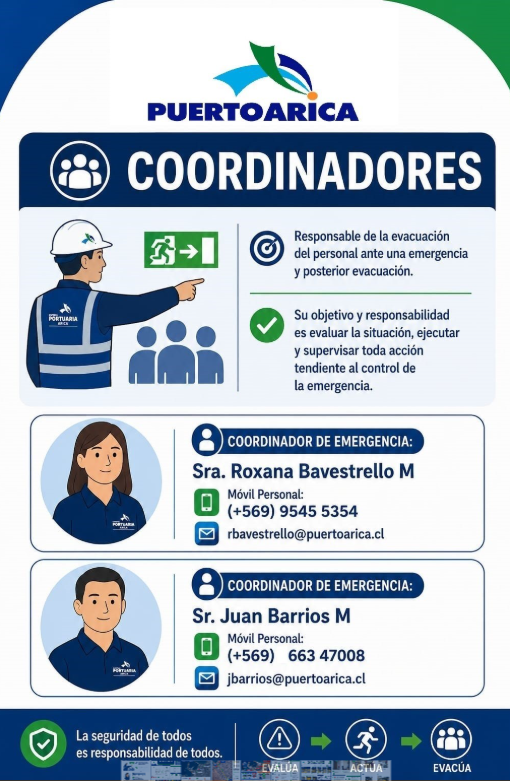
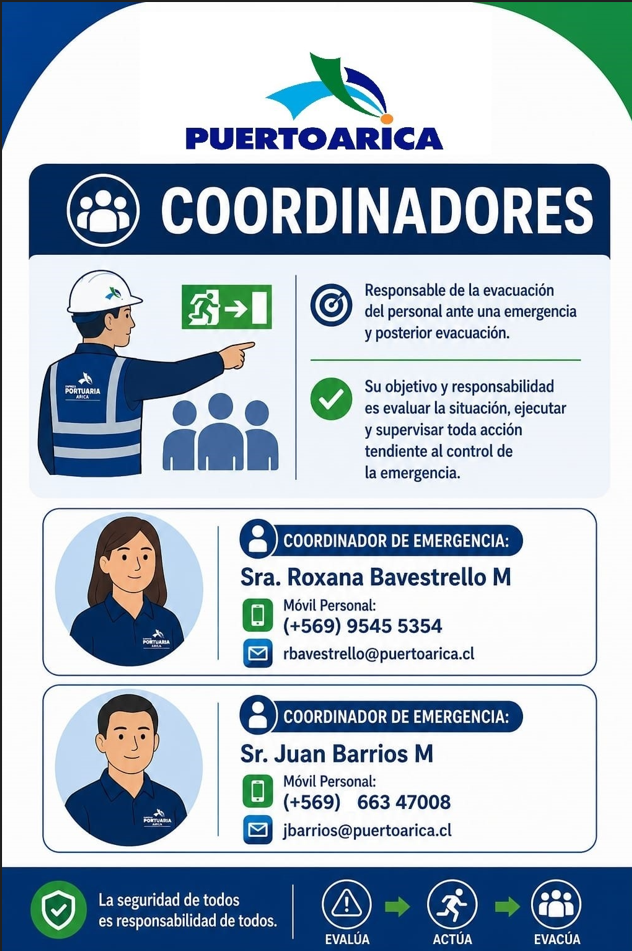
Mejoras modulo plan de emergencia (nuevas imagenes, UI fix)

diff --git a/application/views/plan_emergencia/index.php b/application/views/plan_emergencia/index.php
@@ -516,7 +516,6 @@
     .epa-wip-icon {
       font-size: 36px;
       flex-shrink: 0;
-      animation: wip-pulse 2s ease-in-out infinite;
     }
 
     @keyframes wip-pulse {
@@ -669,7 +668,7 @@
         <article class="epa-card">
           <div class="epa-card-img-wrap">
             <span class="epa-card-badge"><i class="fa fa-building"></i> Nivel 2</span>
-            <img src="<?= $base_img ?>plano_2piso.png" alt="Plano 2° Piso Edificio Administrativo" onerror="this.src='<?= $base_img ?>coordinadores.png'">
+            <img src="<?= $base_img ?>plano_2piso.png" alt="Plano Evacuación 2° Piso">
           </div>
           <div class="epa-card-body">
             <h2 class="epa-card-title">Plano Evacuación 2° Piso</h2>
@@ -683,36 +682,36 @@
           </div>
         </article>
 
-        <!-- Plano 2: Señalización Oficinas -->
+        <!-- Plano 2: Mapa General Puerto -->
         <article class="epa-card">
           <div class="epa-card-img-wrap">
-            <span class="epa-card-badge"><i class="fa fa-info-circle"></i> Señalética</span>
-            <img src="<?= $base_img ?>anexo_senalizacion_oficinas.png" alt="Señalización de Oficinas" onerror="this.src='<?= $base_img ?>coordinadores.png'">
+            <span class="epa-card-badge"><i class="fa fa-anchor"></i> General</span>
+            <img src="<?= $base_img ?>plano_general.jpg" alt="Mapa General del Recinto Portuario">
           </div>
           <div class="epa-card-body">
-            <h2 class="epa-card-title">Señalización de Oficinas</h2>
-            <div class="epa-card-sector"><i class="fa fa-map-marker"></i> Sector: Áreas Administrativas y Pasillos</div>
-            <p class="epa-card-desc">Guía de señalética de emergencia, ubicación de equipos de extinción y vías de evacuación hacia zonas seguras.</p>
+            <h2 class="epa-card-title">Mapa General del Recinto Portuario</h2>
+            <div class="epa-card-sector"><i class="fa fa-map-marker"></i> Sector: Terminal Portuario Arica (EPA)</div>
+            <p class="epa-card-desc">Vista integral del puerto con delimitación de zonas operativas, puntos de encuentro y vías de evacuación rápida.</p>
             <div class="epa-card-footer">
-              <button class="epa-btn-primary" onclick="openEpaModal('Señalización de Oficinas', '<?= $base_img ?>anexo_senalizacion_oficinas.png')">
+              <button class="epa-btn-primary" onclick="openEpaModal('Mapa General del Recinto Portuario', '<?= $base_img ?>plano_general.jpg')">
                 <i class="fa fa-search-plus"></i> VER PLANO EN GRANDE
               </button>
             </div>
           </div>
         </article>
-
-        <!-- Plano 3: Mapa General Puerto -->
+        
+        <!-- Plano 3: Salidas de Emergencia (Anexo 3) -->
         <article class="epa-card">
           <div class="epa-card-img-wrap">
-            <span class="epa-card-badge"><i class="fa fa-anchor"></i> General</span>
-            <img src="<?= $base_img ?>anexo3_puerto.png" alt="Mapa General Puerto Arica" onerror="this.src='<?= $base_img ?>coordinadores.png'">
+            <span class="epa-card-badge" style="border-color:var(--epa-amber); color:var(--epa-amber);"><i class="fa fa-sign-out"></i> Salidas</span>
+            <img src="<?= $base_img ?>anexo3_salidas.jpg" alt="Salidas de Emergencia y Puntos de Reunión">
           </div>
           <div class="epa-card-body">
-            <h2 class="epa-card-title">Mapa General del Recinto Portuario</h2>
-            <div class="epa-card-sector"><i class="fa fa-map-marker"></i> Sector: Terminal Portuario Arica (EPA)</div>
-            <p class="epa-card-desc">Vista integral del puerto con delimitación de zonas operativas, puntos de encuentro 1 y 2 y vías de evacuación rápida.</p>
+            <h2 class="epa-card-title">Salidas de Emergencia</h2>
+            <div class="epa-card-sector"><i class="fa fa-location-arrow"></i> Sector: Zonas exteriores e interiores</div>
+            <p class="epa-card-desc">Información clara y visual de las rutas de evacuación, puertas de escape operativas y puntos de reunión establecidos.</p>
             <div class="epa-card-footer">
-              <button class="epa-btn-primary" onclick="openEpaModal('Mapa General del Recinto Portuario', '<?= $base_img ?>anexo3_puerto.png')">
+              <button class="epa-btn-primary" onclick="openEpaModal('Salidas de Emergencia y Puntos de Reunión', '<?= $base_img ?>anexo3_salidas.jpg')">
                 <i class="fa fa-search-plus"></i> VER PLANO EN GRANDE
               </button>
             </div>
@@ -728,54 +727,54 @@
     <section id="tab-vias" class="epa-tab-content">
       <div class="epa-cards-grid">
 
-        <!-- Vía 1: Vías de Escape Principales -->
+        <!-- Vía 1: Vía de escape al punto de encuentro -->
         <article class="epa-card">
           <div class="epa-card-img-wrap">
-            <span class="epa-card-badge" style="border-color:var(--epa-green); color:var(--epa-green);"><i class="fa fa-sign-out"></i> Vía Principal</span>
-            <img src="<?= $base_img ?>anexo4_via_escape.png" alt="Vías de Escape Principales" onerror="this.src='<?= $base_img ?>coordinadores.png'">
+            <span class="epa-card-badge" style="border-color:var(--epa-green); color:var(--epa-green);"><i class="fa fa-map-signs"></i> Ruta Urbana</span>
+            <img src="<?= $base_img ?>anexo4_vias.jpg" alt="Vía de escape al punto de encuentro">
           </div>
           <div class="epa-card-body">
-            <h2 class="epa-card-title">Vías de Escape Principales</h2>
-            <div class="epa-card-sector"><i class="fa fa-location-arrow"></i> Sector: Terminal 1 y Bodegas Operativas</div>
-            <p class="epa-card-desc">Corredores habilitados para la evacuación inmediata del personal hacia las zonas de seguridad exterior.</p>
+            <h2 class="epa-card-title">Trayecto al Punto de Encuentro</h2>
+            <div class="epa-card-sector"><i class="fa fa-location-arrow"></i> Sector: Máximo Lira hasta San Marcos</div>
+            <p class="epa-card-desc">Fotografía aérea con el trayecto desde el frontis del edificio corporativo hasta el punto de encuentro en San Marcos con Sotomayor.</p>
             <div class="epa-card-footer">
-              <button class="epa-btn-primary" onclick="openEpaModal('Vías de Escape Principales', '<?= $base_img ?>anexo4_via_escape.png')">
+              <button class="epa-btn-primary" onclick="openEpaModal('Trayecto al Punto de Encuentro', '<?= $base_img ?>anexo4_vias.jpg')">
                 <i class="fa fa-eye"></i> VER MAPA DE VÍAS
               </button>
             </div>
           </div>
         </article>
 
-        <!-- Vía 2: Ruta Estacionamientos -->
+        <!-- Vía 2: Ruta Escaleras -->
         <article class="epa-card">
           <div class="epa-card-img-wrap">
-            <span class="epa-card-badge" style="border-color:var(--epa-amber); color:var(--epa-amber);"><i class="fa fa-car"></i> Estacionamiento</span>
-            <img src="<?= $base_img ?>anexo_ruta_estacionamiento.jpg" alt="Ruta de Evacuación Estacionamientos" onerror="this.src='<?= $base_img ?>coordinadores.png'">
+            <span class="epa-card-badge" style="border-color:var(--epa-amber); color:var(--epa-amber);"><i class="fa fa-stairs"></i> Escaleras</span>
+            <img src="<?= $base_img ?>ruta_escaleras.jpg" alt="Ruta Segura Escaleras">
           </div>
           <div class="epa-card-body">
-            <h2 class="epa-card-title">Ruta Evacuación Vehicular</h2>
-            <div class="epa-card-sector"><i class="fa fa-location-arrow"></i> Sector: Zona de Vehículos y Accesos Puerta Norte</div>
-            <p class="epa-card-desc">Procedimiento y sentido de flujo para vehículos y peatones en el sector de estacionamientos durante una evacuación.</p>
+            <h2 class="epa-card-title">Ruta Segura - Escaleras</h2>
+            <div class="epa-card-sector"><i class="fa fa-arrow-down"></i> Sector: Escalera junto estacionamiento</div>
+            <p class="epa-card-desc">Secuencia de salida paso a paso por las escaleras de emergencia y demarcación hasta la zona de seguridad.</p>
             <div class="epa-card-footer">
-              <button class="epa-btn-primary" onclick="openEpaModal('Ruta Evacuación Vehicular', '<?= $base_img ?>anexo_ruta_estacionamiento.jpg')">
+              <button class="epa-btn-primary" onclick="openEpaModal('Ruta Segura - Escaleras', '<?= $base_img ?>ruta_escaleras.jpg')">
                 <i class="fa fa-eye"></i> VER MAPA DE VÍAS
               </button>
             </div>
           </div>
         </article>
-
-        <!-- Vía 3: Protocolo Tsunami / Cota 30 -->
+        
+        <!-- Vía 3: Rutas Letreros -->
         <article class="epa-card">
           <div class="epa-card-img-wrap">
-            <span class="epa-card-badge" style="border-color:var(--epa-blue); color:var(--epa-light-cyan);"><i class="fa fa-tint"></i> Alerta Tsunami</span>
-            <img src="<?= $base_img ?>anexo_protocolo_tsunami.png" alt="Ruta Evacuación Tsunami Cota 30" onerror="this.src='<?= $base_img ?>coordinadores.png'">
+            <span class="epa-card-badge" style="border-color:var(--epa-cyan); color:var(--epa-cyan);"><i class="fa fa-bolt"></i> Señalización</span>
+            <img src="<?= $base_img ?>rutas_letreros.png" alt="Señalización Rutas">
           </div>
           <div class="epa-card-body">
-            <h2 class="epa-card-title">Evacuación Tsunami (Cota 30)</h2>
-            <div class="epa-card-sector"><i class="fa fa-location-arrow"></i> Sector: Borde Costero y Recinto Portuario</div>
-            <p class="epa-card-desc">Ruta peatonal hacia zonas de seguridad sobre la cota de 30 metros de altura sobre el nivel del mar.</p>
+            <h2 class="epa-card-title">Señalización de Rutas</h2>
+            <div class="epa-card-sector"><i class="fa fa-sign-in"></i> Sector: Interiores Edificio</div>
+            <p class="epa-card-desc">Guía de señalética luminosa y rutas de evacuación correctamente señalizadas para una evacuación rápida, ordenada y segura.</p>
             <div class="epa-card-footer">
-              <button class="epa-btn-primary" onclick="openEpaModal('Evacuación Tsunami (Cota 30)', '<?= $base_img ?>anexo_protocolo_tsunami.png')">
+              <button class="epa-btn-primary" onclick="openEpaModal('Señalización de Rutas', '<?= $base_img ?>rutas_letreros.png')">
                 <i class="fa fa-eye"></i> VER MAPA DE VÍAS
               </button>
             </div>
@@ -791,21 +790,37 @@
     <section id="tab-coordinadores" class="epa-tab-content">
       <div class="epa-cards-grid">
 
-        <!-- Coordinador 1: Roxana Barahona -->
+        <!-- Infografía Coordinadores -->
+        <article class="epa-card">
+          <div class="epa-card-img-wrap" style="min-height: 200px;">
+            <span class="epa-card-badge"><i class="fa fa-info-circle"></i> Roles</span>
+            <img src="<?= $base_img ?>coordinadores.png" alt="Roles de Coordinadores">
+          </div>
+          <div class="epa-card-body">
+            <h2 class="epa-card-title">Rol del Coordinador</h2>
+            <div class="epa-card-sector"><i class="fa fa-check-circle"></i> Responsabilidad de Evacuación</div>
+            <p class="epa-card-desc">Su objetivo es evaluar la situación, ejecutar y supervisar toda acción tendiente al control de la emergencia.</p>
+            <div class="epa-card-footer">
+              <button class="epa-btn-primary" onclick="openEpaModal('Roles de Coordinadores', '<?= $base_img ?>coordinadores.png')">
+                <i class="fa fa-search-plus"></i> VER INFOGRAFÍA
+              </button>
+            </div>
+          </div>
+        </article>
+
+        <!-- Coordinador 1: Roxana Bavestrello -->
         <article class="epa-card">
           <div class="epa-card-body" style="align-items:center; text-align:center;">
             <div class="epa-coord-avatar-wrap">
-              <i class="fa fa-user-circle"></i>
+              <i class="fa fa-female"></i>
             </div>
-            <h2 class="epa-card-title" style="margin-bottom:4px;">Roxana Barahona</h2>
+            <h2 class="epa-card-title" style="margin-bottom:4px;">Sra. Roxana Bavestrello M</h2>
             <div class="epa-card-sector" style="justify-content:center;">
-              <i class="fa fa-star" style="color:var(--epa-amber);"></i> Coordinadora Principal de Emergencias
+              <i class="fa fa-star" style="color:var(--epa-amber);"></i> Coordinador de Emergencia
             </div>
-            <p class="epa-card-desc" style="font-size:12px; margin-bottom:12px;">
-              Encargada de la dirección operativa y toma de decisiones en situaciones de emergencia y evacuación.
-            </p>
-            <div class="epa-coord-phone">
-              <i class="fa fa-phone" style="color:var(--epa-cyan);"></i> +56 9 9545 5354
+            <div class="epa-coord-phone" style="flex-direction: column; align-items: center; font-size:13px; line-height: 1.6;">
+              <div><i class="fa fa-phone" style="color:var(--epa-cyan);"></i> (+569) 9545 5354</div>
+              <div><i class="fa fa-envelope" style="color:var(--epa-cyan);"></i> rbavestrello@puertoarica.cl</div>
             </div>
             <div class="epa-card-footer" style="width:100%;">
               <a href="tel:+56995455354" class="epa-btn-call">
@@ -818,21 +833,19 @@
           </div>
         </article>
 
-        <!-- Coordinador 2: Juan Barahona -->
+        <!-- Coordinador 2: Juan Barrios -->
         <article class="epa-card">
           <div class="epa-card-body" style="align-items:center; text-align:center;">
             <div class="epa-coord-avatar-wrap">
-              <i class="fa fa-user-circle"></i>
+              <i class="fa fa-male"></i>
             </div>
-            <h2 class="epa-card-title" style="margin-bottom:4px;">Juan Barahona</h2>
+            <h2 class="epa-card-title" style="margin-bottom:4px;">Sr. Juan Barrios M</h2>
             <div class="epa-card-sector" style="justify-content:center;">
-              <i class="fa fa-shield" style="color:var(--epa-cyan);"></i> Coordinador Secundario de Emergencias
+              <i class="fa fa-shield" style="color:var(--epa-cyan);"></i> Coordinador de Emergencia
             </div>
-            <p class="epa-card-desc" style="font-size:12px; margin-bottom:12px;">
-              Apoyo directo en terreno, coordinación de líderes de piso y verificación de vías despejadas.
-            </p>
-            <div class="epa-coord-phone">
-              <i class="fa fa-phone" style="color:var(--epa-cyan);"></i> +56 9 6634 7008
+            <div class="epa-coord-phone" style="flex-direction: column; align-items: center; font-size:13px; line-height: 1.6;">
+              <div><i class="fa fa-phone" style="color:var(--epa-cyan);"></i> (+569) 6634 7008</div>
+              <div><i class="fa fa-envelope" style="color:var(--epa-cyan);"></i> jbarrios@puertoarica.cl</div>
             </div>
             <div class="epa-card-footer" style="width:100%;">
               <a href="tel:+56966347008" class="epa-btn-call">
@@ -840,30 +853,6 @@
               </a>
               <a href="<?= formatWhatsAppUrl('+56966347008') ?>" target="_blank" rel="noopener noreferrer" class="epa-btn-whatsapp">
                 <i class="fa fa-whatsapp"></i> WhatsApp
-              </a>
-            </div>
-          </div>
-        </article>
-
-        <!-- Coordinador 3: Prevención de Riesgos -->
-        <article class="epa-card">
-          <div class="epa-card-body" style="align-items:center; text-align:center;">
-            <div class="epa-coord-avatar-wrap" style="border-color:var(--epa-green);">
-              <i class="fa fa-medkit" style="color:var(--epa-green);"></i>
-            </div>
-            <h2 class="epa-card-title" style="margin-bottom:4px;">Prevención de Riesgos EPA</h2>
-            <div class="epa-card-sector" style="justify-content:center;">
-              <i class="fa fa-plus-square" style="color:var(--epa-green);"></i> Departamento de Seguridad y Salud
-            </div>
-            <p class="epa-card-desc" style="font-size:12px; margin-bottom:12px;">
-              Asistencia técnica, primeros auxilios y coordinación con mutualidad y servicios de urgencia externos.
-            </p>
-            <div class="epa-coord-phone">
-              <i class="fa fa-phone" style="color:var(--epa-cyan);"></i> +56 58 220 1100
-            </div>
-            <div class="epa-card-footer" style="width:100%;">
-              <a href="tel:+56582201100" class="epa-btn-call" style="width:100%;">
-                <i class="fa fa-phone"></i> Central Telefónica EPA
               </a>
             </div>
           </div>
@@ -878,55 +867,37 @@
     <section id="tab-protocolos" class="epa-tab-content">
       <div class="epa-cards-grid">
 
-        <!-- Protocolo 1: Procedimiento General -->
+        <!-- Protocolo 1: Tsunami -->
         <article class="epa-card">
           <div class="epa-card-img-wrap">
-            <span class="epa-card-badge"><i class="fa fa-list"></i> Guía General</span>
-            <img src="<?= $base_img ?>anexo_procedimiento_general.jpg" alt="Procedimiento General de Emergencia" onerror="this.src='<?= $base_img ?>coordinadores.png'">
+            <span class="epa-card-badge" style="border-color:var(--epa-cyan); color:var(--epa-cyan);"><i class="fa fa-tint"></i> Marítimo</span>
+            <img src="<?= $base_img ?>info_tsunami.png" alt="¿Qué hacer ante un Tsunami?">
           </div>
           <div class="epa-card-body">
-            <h2 class="epa-card-title">Procedimiento General de Evacuación</h2>
-            <div class="epa-card-sector"><i class="fa fa-check-circle"></i> Protocolo 3 Pasos: Evalúa &bull; Actúa &bull; Evacúa</div>
-            <p class="epa-card-desc">Directrices fundamentales a seguir desde la activación de la señal de alarma hasta la llegada al punto de encuentro.</p>
+            <h2 class="epa-card-title">¿Qué hacer ante un Tsunami?</h2>
+            <div class="epa-card-sector"><i class="fa fa-exclamation-triangle"></i> Instrucciones de Seguridad</div>
+            <p class="epa-card-desc">Pasos a seguir al momento de recibir un llamado o alerta de tsunami, desde la evaluación inicial hasta el punto de encuentro.</p>
             <div class="epa-card-footer">
-              <button class="epa-btn-primary" onclick="openEpaModal('Procedimiento General de Evacuación', '<?= $base_img ?>anexo_procedimiento_general.jpg')">
-                <i class="fa fa-file-text-o"></i> VER PROTOCOLO
+              <button class="epa-btn-primary" onclick="openEpaModal('¿Qué hacer ante un Tsunami?', '<?= $base_img ?>info_tsunami.png')">
+                <i class="fa fa-file-text-o"></i> VER INFOGRAFÍA
               </button>
             </div>
           </div>
         </article>
 
-        <!-- Protocolo 2: Protocolo Tsunami -->
+        <!-- Protocolo 2: Simulacro -->
         <article class="epa-card">
           <div class="epa-card-img-wrap">
-            <span class="epa-card-badge"><i class="fa fa-warning"></i> Marítimo</span>
-            <img src="<?= $base_img ?>anexo_protocolo_tsunami.png" alt="Protocolo Tsunami" onerror="this.src='<?= $base_img ?>coordinadores.png'">
+            <span class="epa-card-badge" style="border-color:var(--epa-green); color:var(--epa-green);"><i class="fa fa-refresh"></i> Ejercicios</span>
+            <img src="<?= $base_img ?>simulacro.png" alt="Evacuación - Simulacro">
           </div>
           <div class="epa-card-body">
-            <h2 class="epa-card-title">Protocolo ante Alerta de Tsunami</h2>
-            <div class="epa-card-sector"><i class="fa fa-tint"></i> Alerta SHOA / SENAPRED</div>
-            <p class="epa-card-desc">Acciones inmediatas ante sismos de gran magnitud en la zona costera y ruta de evacuación hacia cota 30.</p>
+            <h2 class="epa-card-title">Evacuación - Simulacro</h2>
+            <div class="epa-card-sector"><i class="fa fa-camera"></i> Secuencia Fotográfica</div>
+            <p class="epa-card-desc">Registro del ejercicio de simulacro: inicio de la evacuación, descenso por escaleras, desplazamiento y llegada a zona segura.</p>
             <div class="epa-card-footer">
-              <button class="epa-btn-primary" onclick="openEpaModal('Protocolo ante Alerta de Tsunami', '<?= $base_img ?>anexo_protocolo_tsunami.png')">
-                <i class="fa fa-file-text-o"></i> VER PROTOCOLO
-              </button>
-            </div>
-          </div>
-        </article>
-
-        <!-- Protocolo 3: Simulacros -->
-        <article class="epa-card">
-          <div class="epa-card-img-wrap">
-            <span class="epa-card-badge"><i class="fa fa-refresh"></i> Ejercicios</span>
-            <img src="<?= $base_img ?>anexo_simulacro_evacuacion.png" alt="Simulacro de Evacuación" onerror="this.src='<?= $base_img ?>coordinadores.png'">
-          </div>
-          <div class="epa-card-body">
-            <h2 class="epa-card-title">Simulacro de Evacuación</h2>
-            <div class="epa-card-sector"><i class="fa fa-clock-o"></i> Entrenamiento Periódico</div>
-            <p class="epa-card-desc">Instructivo de medición de tiempos de respuesta, roles de líderes de piso y evaluación post-ejercicio.</p>
-            <div class="epa-card-footer">
-              <button class="epa-btn-primary" onclick="openEpaModal('Simulacro de Evacuación', '<?= $base_img ?>anexo_simulacro_evacuacion.png')">
-                <i class="fa fa-file-text-o"></i> VER PROTOCOLO
+              <button class="epa-btn-primary" onclick="openEpaModal('Evacuación - Simulacro', '<?= $base_img ?>simulacro.png')">
+                <i class="fa fa-file-text-o"></i> VER SECUENCIA
               </button>
             </div>
           </div>
